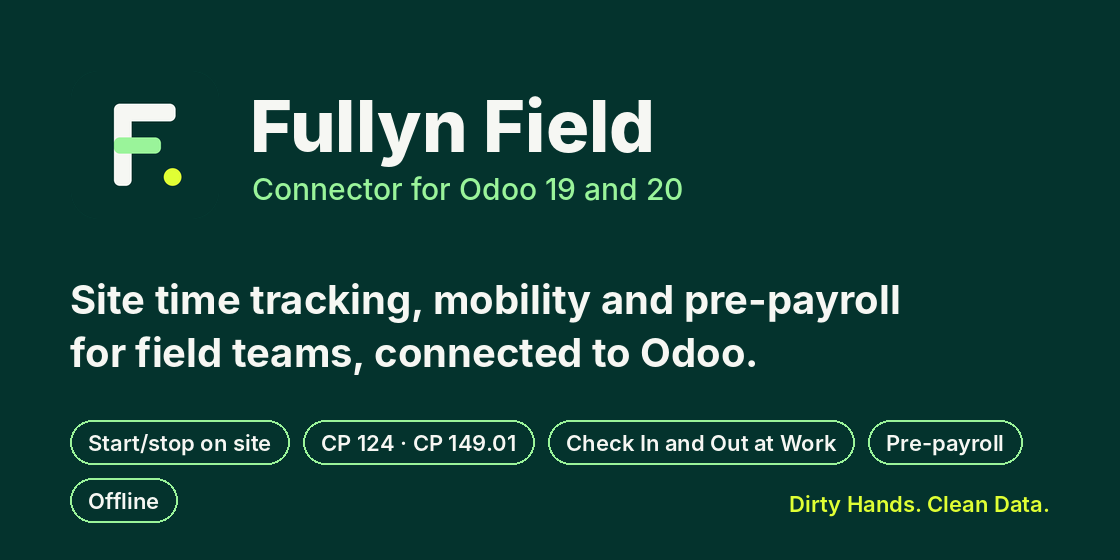
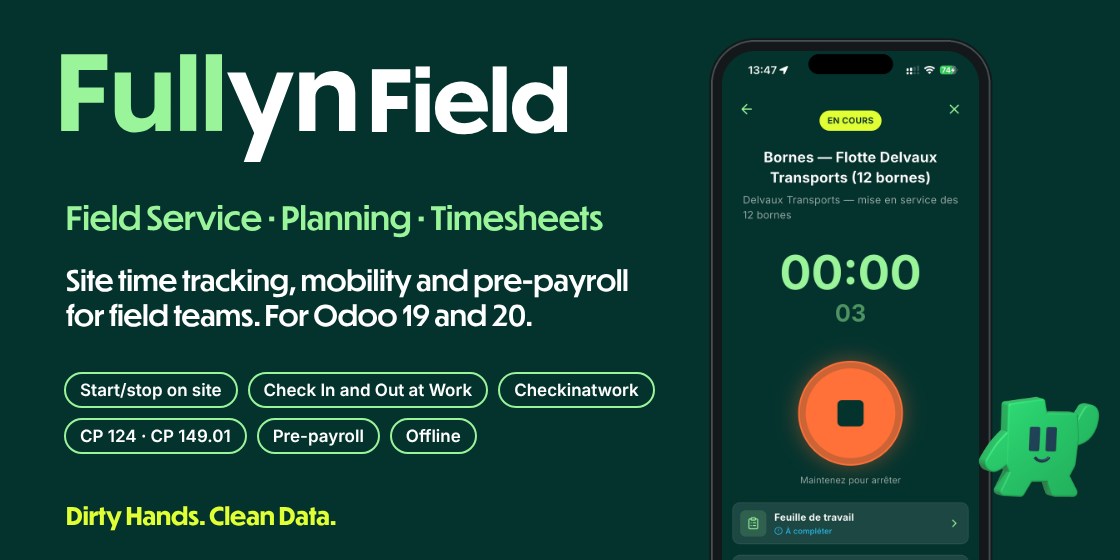
Add files via upload

Changed region(s): [[0.0312, 0.0607, 1.0, 1.0], [0.7188, 0.1821, 0.8125, 0.2429]]

diff --git a/fullyn_field_connector/static/description/index.html b/fullyn_field_connector/static/description/index.html
@@ -1,4 +1,4 @@
-<section class="container" style="font-family: Inter, Arial, Helvetica, sans-serif; color: #04332d;">
+<section class="container" style="font-family: Inter, Arial, Helvetica, sans-serif; color: #024450;">
 
     <!-- ===================== HERO ===================== -->
     <div class="row" style="margin-top: 24px; margin-bottom: 24px;">
@@ -8,40 +8,93 @@
     </div>
 
     <div class="row" style="margin-bottom: 32px;">
-        <div class="col-12 text-center">
-            <h2 style="font-weight: 800; font-size: 32px; color: #04332d; margin-bottom: 12px;">
+        <div class="col-md-10">
+            <h2 style="font-weight: 800; font-size: 32px; color: #024450; margin-bottom: 12px;">
                 The office plans. The field executes. Everything lands in the right place.
             </h2>
-            <p style="font-size: 18px; color: #3b4a46; margin-bottom: 24px;">
-                Fullyn Field captures what your field teams really did (jobs, hours, trips, time off, site attendance)
-                and turns it into pre-payroll, planning and margin per site. This free connector links your Odoo
-                database to your Fullyn Field account.
+            <p style="font-size: 18px; color: #3b4a46;">
+                <b>Fullyn Field</b> is a Belgian software for companies with teams on the field: construction sites,
+                installers, maintenance technicians, cleaning crews, gardeners. Workers record their day on their phone,
+                team leaders validate it on site, the office closes the month, and the data goes to payroll and to Odoo
+                without re-typing anything.
+            </p>
+            <p style="font-size: 16px; color: #3b4a46;">
+                This free module is the <b>connector</b>: it links your Odoo database to your Fullyn Field account and
+                checks whether your Odoo is ready for it.
+            </p>
+            <p style="font-size: 15px; color: #024450; border-left: 4px solid #9af49a; padding-left: 12px;">
+                <b>Field Service</b> &middot; <b>Planning</b> &middot; <b>Timesheets</b> &middot; <b>Pre-payroll</b> &middot;
+                <b>Checkinatwork</b> &middot; <b>Check In and Out at Work (CIAO)</b> &middot;
+                <b>Mobility CP 124 / PC 124</b> &middot; <b>CP 149.01 / PC 149.01</b> &middot; Time off &middot; Kiosk time clock &middot;
+                Construction, installers, maintenance, cleaning, landscaping
             </p>
             <a href="mailto:info@fullyn.com?subject=Fullyn%20Field%20demo%20request%20(Odoo%20Apps)"
-               style="display: inline-block; background-color: #e0ff34; color: #04332d; font-weight: 700; font-size: 18px; padding: 14px 32px; border: 2px solid #04332d; border-radius: 999px; text-decoration: none;">
+               style="display: inline-block; background-color: #e0ff34; color: #024450; font-weight: 700; font-size: 18px; padding: 14px 32px; border: 2px solid #024450; border-radius: 999px; text-decoration: none; margin-top: 8px;">
                 Request a demo
             </a>
             <p style="font-size: 14px; color: #5b6b66; margin-top: 10px;">20-minute demo on one of your own sites, in French or Dutch.</p>
         </div>
+
+
+    <!-- ===================== WHAT IS FULLYN FIELD ===================== -->
+    <div class="row" style="margin-bottom: 8px;">
+        <div class="col-12">
+            <h3 style="font-weight: 800; font-size: 26px; margin-bottom: 16px;">What is Fullyn Field?</h3>
+        </div>
+    </div>
+    <div class="row" style="margin-bottom: 24px;">
+        <div class="col-md-4" style="margin-bottom: 16px;">
+            <div style="border: 1px solid #d9ded6; border-top: 6px solid #024450; border-radius: 8px; padding: 18px; height: 100%;">
+                <h4 style="font-weight: 700; font-size: 19px;">A mobile app for the field</h4>
+                <p style="font-size: 15px; margin-bottom: 0;">Workers start and stop each job with one tap, declare their trips,
+                    request time off and add photos, videos or voice notes. It works offline. Team leaders can record time
+                    for their whole crew and validate it on site.</p>
+            </div>
+        </div>
+        <div class="col-md-4" style="margin-bottom: 16px;">
+            <div style="border: 1px solid #d9ded6; border-top: 6px solid #024450; border-radius: 8px; padding: 18px; height: 100%;">
+                <h4 style="font-weight: 700; font-size: 19px;">An office back-end</h4>
+                <p style="font-size: 15px; margin-bottom: 0;">The office plans the work, follows the team in real time,
+                    corrects and validates hours, then closes the month. Each job is allocated to a project, a task and a
+                    sales order.</p>
+            </div>
+        </div>
+        <div class="col-md-4" style="margin-bottom: 16px;">
+            <div style="border: 1px solid #d9ded6; border-top: 6px solid #024450; border-radius: 8px; padding: 18px; height: 100%;">
+                <h4 style="font-weight: 700; font-size: 19px;">Connections to your tools</h4>
+                <p style="font-size: 15px; margin-bottom: 0;">Validated hours, trips, time off and photos go to Odoo
+                    (timesheets, projects, sales), to the social secretariat for payroll, and to the accountant.</p>
+            </div>
+        </div>
     </div>
 
-    <!-- ===================== WHAT THIS MODULE DOES ===================== -->
     <div class="row" style="margin-bottom: 32px;">
-        <div class="col-12" style="border: 1px solid #d9ded6; border-left: 6px solid #04332d; border-radius: 8px; padding: 20px 24px;">
-            <h3 style="font-weight: 800; font-size: 22px; margin-bottom: 12px;">What this module does in Odoo</h3>
-            <ul style="font-size: 16px; line-height: 1.7; margin-bottom: 12px;">
-                <li>Adds a <b>Fullyn Field</b> menu and a settings screen (platform address, API key).</li>
-                <li><b>Tests the connection</b> to your Fullyn account, after explicit opt-in by an administrator.</li>
-                <li>Runs a <b>local readiness check</b> of your database: Odoo version, active employees, active projects,
-                    and whether Project, Timesheets, Planning, Time Off and Employees are installed, with a recommendation
-                    on how to deploy Fullyn Field.</li>
-                <li>Opens your Fullyn platform and the demo booking page from the menu.</li>
-            </ul>
-            <p style="font-size: 15px; color: #3b4a46; margin-bottom: 0;">
-                <b>External service:</b> the features described below are provided by Fullyn Field, a separate
-                subscription from Fullyn SRL (Belgium). Without a Fullyn account, the menu, settings and readiness check
-                still work. This module does not contain the Fullyn Field application itself.
-            </p>
+        <div class="col-12" style="background-color: #f6f7f3; border: 1px solid #d9ded6; border-radius: 8px; padding: 20px 24px;">
+            <h4 style="font-weight: 700; font-size: 19px; margin-bottom: 12px;">How it works, in four steps</h4>
+            <ol style="font-size: 16px; line-height: 1.8; margin-bottom: 0;">
+                <li><b>The office plans</b> the week: who works on which site, on which task.</li>
+                <li><b>The field records</b> the day in the app: start/stop per job, trips, time off, photos.</li>
+                <li><b>The team leader and the office validate</b>: corrections on site, then month-end validation and closing.</li>
+                <li><b>Everything lands in the right place</b>: Odoo timesheets and projects, payroll, invoicing, margin per site.</li>
+            </ol>
+        </div>
+    </div>
+
+    <!-- ===================== IN THE APP ===================== -->
+    <div class="row" style="margin-bottom: 8px;">
+        <div class="col-12 text-center">
+            <h3 style="font-weight: 800; font-size: 26px; margin-bottom: 6px;">In the Fullyn app</h3>
+            <p style="font-size: 15px; color: #5b6b66; margin-bottom: 20px;">Real screens of the Fullyn mobile app (shown in French).</p>
+        </div>
+    </div>
+    <div class="row" style="margin-bottom: 32px;">
+        <div class="col-md-6 text-center" style="margin-bottom: 16px;">
+            <img src="phone_planning.png" alt="Fullyn app: today's planning with jobs to start" class="img-fluid" style="max-width: 260px;"/>
+            <p style="font-size: 15px; margin-top: 10px;"><b>Today's planning.</b> Each worker sees the jobs planned by the office and starts them with one tap.</p>
+        </div>
+        <div class="col-md-6 text-center" style="margin-bottom: 16px;">
+            <img src="phone_timer.png" alt="Fullyn app: job in progress with timer, worksheet and mobility" class="img-fluid" style="max-width: 260px;"/>
+            <p style="font-size: 15px; margin-top: 10px;"><b>Job in progress.</b> The timer runs; hold to stop. From here: the worksheet and the CP 124 / CP 149.01 trip declaration.</p>
         </div>
     </div>
 
@@ -59,7 +112,7 @@
                     <li>Working time recorded and validated on site, then at the office</li>
                     <li>Time off, absences and bad-weather days</li>
                     <li>CP 124 and CP 149.01 mobility</li>
-                    <li>Month-end validation and closing, sent to the social secretariat and the accountant</li>
+                    <li>Month-end closing, sent to the social secretariat and the accountant</li>
                 </ul>
             </div>
         </div>
@@ -68,9 +121,9 @@
                 <h4 style="font-weight: 700; font-size: 19px;">Operations and planning</h4>
                 <ul style="font-size: 15px; line-height: 1.6; padding-left: 18px; margin-bottom: 0;">
                     <li>The office plans, the field receives its jobs</li>
-                    <li>Individual, team or kiosk time tracking with start/stop</li>
+                    <li>Individual, team or kiosk time tracking</li>
                     <li>Team leaders validate and correct on site</li>
-                    <li>Photos, videos, voice notes and a worksheet per job</li>
+                    <li>A worksheet per job, with photos and voice notes</li>
                 </ul>
             </div>
         </div>
@@ -108,20 +161,32 @@
                 <li><b>Position recorded at start and stop</b> of each job, nothing in between and nothing when the
                     app is closed.</li>
                 <li>Six languages: French, Dutch, English, German, Italian, Spanish.</li>
-                <li>For construction, electrical and HVAC installers, maintenance, cleaning and facility, parks and
-                    gardens, from 10 to 5,000 workers.</li>
+                <li>From 10 to 5,000 workers, in Belgium and Luxembourg.</li>
             </ul>
         </div>
     </div>
 
-    <!-- ===================== SCREENSHOTS ===================== -->
-    <div class="row" style="margin-bottom: 8px;">
-        <div class="col-12 text-center">
-            <h3 style="font-weight: 800; font-size: 26px; margin-bottom: 20px;">Screenshots</h3>
+    <!-- ===================== WHAT THIS MODULE DOES ===================== -->
+    <div class="row" style="margin-bottom: 24px;">
+        <div class="col-12" style="border: 1px solid #d9ded6; border-left: 6px solid #024450; border-radius: 8px; padding: 20px 24px;">
+            <h3 style="font-weight: 800; font-size: 22px; margin-bottom: 12px;">What this module does in Odoo</h3>
+            <ul style="font-size: 16px; line-height: 1.7; margin-bottom: 12px;">
+                <li>Adds a <b>Fullyn Field</b> menu and a settings screen (platform address, API key).</li>
+                <li><b>Tests the connection</b> to your Fullyn account, after explicit opt-in by an administrator.</li>
+                <li>Runs a <b>local readiness check</b> of your database: Odoo version, active employees, active projects,
+                    and whether Project, Timesheets, Planning, Time Off and Employees are installed, with a recommendation
+                    on how to deploy Fullyn Field.</li>
+                <li>Opens your Fullyn platform and the demo booking page from the menu.</li>
+            </ul>
+            <p style="font-size: 15px; color: #3b4a46; margin-bottom: 0;">
+                <b>External service:</b> the Fullyn Field features described on this page are provided by Fullyn Field,
+                a separate subscription from Fullyn SRL (Belgium). Without a Fullyn account, the menu, settings and
+                readiness check still work. This module does not contain the Fullyn Field application itself.
+            </p>
         </div>
     </div>
     <div class="row" style="margin-bottom: 32px;">
-        <div class="col-md-10 offset-md-1" style="margin-bottom: 16px;">
+        <div class="col-md-10 offset-md-1">
             <img src="screenshot_settings.png" alt="Fullyn Field Connector settings in Odoo" class="img-fluid" style="border: 1px solid #d9ded6; border-radius: 8px;"/>
             <p style="font-size: 14px; color: #5b6b66; margin-top: 6px;">This module in Odoo: connection settings and readiness check.</p>
         </div>
@@ -133,9 +198,9 @@
             <h3 style="font-weight: 800; font-size: 22px; margin-bottom: 12px;">Two ways to run Fullyn Field with Odoo</h3>
             <table class="table" style="font-size: 15px;">
                 <tr>
-                    <th style="border-bottom: 2px solid #04332d;"></th>
-                    <th style="border-bottom: 2px solid #04332d;">Fullyn Field for Odoo</th>
-                    <th style="border-bottom: 2px solid #04332d;">Fullyn Field through the Fullyn platform</th>
+                    <th style="border-bottom: 2px solid #024450;"></th>
+                    <th style="border-bottom: 2px solid #024450;">Fullyn Field for Odoo</th>
+                    <th style="border-bottom: 2px solid #024450;">Fullyn Field through the Fullyn platform</th>
                 </tr>
                 <tr>
                     <td><b>Where data goes</b></td>
@@ -173,9 +238,10 @@
     <!-- ===================== CONTACT ===================== -->
     <div class="row" style="margin-bottom: 40px;">
         <div class="col-12 text-center">
+            <img src="mascot_small.png" alt="The Fullyn mascot" style="width: 90px; margin-bottom: 8px;"/>
             <h3 style="font-weight: 800; font-size: 24px;">See Fullyn Field on one of your sites</h3>
             <a href="mailto:info@fullyn.com?subject=Fullyn%20Field%20demo%20request%20(Odoo%20Apps)"
-               style="display: inline-block; background-color: #e0ff34; color: #04332d; font-weight: 700; font-size: 18px; padding: 14px 32px; border: 2px solid #04332d; border-radius: 999px; text-decoration: none; margin-top: 8px;">
+               style="display: inline-block; background-color: #e0ff34; color: #024450; font-weight: 700; font-size: 18px; padding: 14px 32px; border: 2px solid #024450; border-radius: 999px; text-decoration: none; margin-top: 8px;">
                 Request a demo
             </a>
             <p style="font-size: 14px; color: #5b6b66; margin-top: 12px;">
@@ -185,32 +251,39 @@
         </div>
     </div>
 
-    <!-- ===================== EN FRANÇAIS ===================== -->
+    <!-- ===================== EN FRAN&#199;AIS ===================== -->
     <div class="row" style="margin-bottom: 40px;">
-        <div class="col-12" style="border-top: 2px solid #04332d; padding-top: 24px;">
-            <h3 style="font-weight: 800; font-size: 24px;">En français</h3>
+        <div class="col-12" style="border-top: 2px solid #024450; padding-top: 24px;">
+            <h3 style="font-weight: 800; font-size: 24px;">En fran&#231;ais</h3>
+            <h4 style="font-weight: 700; font-size: 19px;">C'est quoi, Fullyn Field ?</h4>
             <p style="font-size: 16px;">
-                <b>Le bureau prépare. Le terrain exécute. Tout remonte au bon endroit.</b> Fullyn Field collecte ce que
-                vos équipes terrain ont réellement fait (prestations, heures, trajets, congés, présences sur chantier) et
-                le transforme en pré-paie, en planning et en marge par chantier. Ce connecteur gratuit relie votre base
-                Odoo à votre compte Fullyn Field.
+                <b>Fullyn Field</b> est un logiciel belge pour les entreprises qui ont des &#233;quipes sur le terrain : chantiers,
+                installateurs, techniciens de maintenance, &#233;quipes de nettoyage, parcs et jardins. Les ouvriers encodent
+                leur journ&#233;e sur leur t&#233;l&#233;phone, le chef d'&#233;quipe valide sur place, le bureau cl&#244;ture le mois, et tout part
+                vers la paie et vers Odoo, sans rien ressaisir.
             </p>
             <ul style="font-size: 15px; line-height: 1.7; padding-left: 18px;">
-                <li><b>Pointage chantier</b> en start/stop, individuel, d'équipe ou en mode Kiosk, validé sur place par le chef d'équipe.</li>
-                <li><b>Mobilités CP 124 et CP 149.01</b> : trajets déclarés dans l'app, kilomètres calculés.</li>
-                <li><b>Check In and Out at Work (CIaO)</b> : dès le 1er avril 2027, entrée et sortie enregistrées sur les chantiers d'au moins 500 000 € HTVA ; le geste start/stop les enregistre.</li>
-                <li><b>Pré-paie</b> : temps de travail, congés, absences, intempéries, validations du mois et clôture vers le secrétariat social et la fiduciaire.</li>
-                <li><b>Hors ligne</b> : l'app fonctionne en zone blanche ; les prestations partent dès le retour du réseau.</li>
-                <li><b>Rentabilité</b> : chaque prestation allouée au projet, à la tâche et à la commande client.</li>
+                <li><b>Une app mobile pour le terrain</b> : start/stop de chaque prestation, trajets, cong&#233;s, photos, vid&#233;os, notes vocales. Elle fonctionne hors ligne.</li>
+                <li><b>Un back-office pour le bureau</b> : planning, suivi de l'&#233;quipe, corrections, validations du mois et cl&#244;ture.</li>
+                <li><b>Des connexions</b> : heures valid&#233;es, trajets, cong&#233;s et photos vers Odoo (feuilles de temps, projets, ventes), le secr&#233;tariat social et la fiduciaire.</li>
+            </ul>
+            <h4 style="font-weight: 700; font-size: 19px;">Ce que Fullyn Field g&#232;re</h4>
+            <ul style="font-size: 15px; line-height: 1.7; padding-left: 18px;">
+                <li><b>Pointage chantier</b> en start/stop, individuel, d'&#233;quipe ou en mode Kiosk, et <b>Checkinatwork</b>.</li>
+                <li><b>Mobilit&#233;s CP 124 et CP 149.01</b> (PC 124 et PC 149.01 en n&#233;erlandais) : trajets d&#233;clar&#233;s dans l'app, kilom&#232;tres calcul&#233;s.</li>
+                <li><b>Check In and Out at Work (CIaO)</b> : d&#232;s le 1er avril 2027, entr&#233;e et sortie enregistr&#233;es sur les chantiers d'au moins 500 000 &#8364; HTVA ; le geste start/stop les enregistre.</li>
+                <li><b>Pr&#233;-paie</b> : temps de travail, cong&#233;s, absences, intemp&#233;ries, validations du mois et cl&#244;ture.</li>
+                <li><b>Rentabilit&#233;</b> : chaque prestation allou&#233;e au projet, &#224; la t&#226;che et &#224; la commande client.</li>
             </ul>
             <p style="font-size: 15px;">
-                <b>Ce que fait le module dans Odoo :</b> un menu Fullyn Field, un écran de configuration (adresse de la
-                plateforme, clé API), un test de connexion après accord explicite d'un administrateur, et un diagnostic
-                local de votre base. Les fonctionnalités ci-dessus sont fournies par Fullyn Field, abonnement distinct.
+                <b>Ce que fait ce module dans Odoo :</b> c'est le connecteur gratuit. Il ajoute un menu Fullyn Field, un
+                &#233;cran de configuration (adresse de la plateforme, cl&#233; API), un test de connexion apr&#232;s accord explicite
+                d'un administrateur, et un diagnostic local de votre base. Les fonctionnalit&#233;s de Fullyn Field sont
+                fournies par un abonnement distinct.
             </p>
             <a href="mailto:info@fullyn.com?subject=Demande%20de%20d%C3%A9mo%20Fullyn%20Field%20(Odoo%20Apps)"
-               style="display: inline-block; background-color: #e0ff34; color: #04332d; font-weight: 700; font-size: 17px; padding: 12px 28px; border: 2px solid #04332d; border-radius: 999px; text-decoration: none;">
-                Demander une démo
+               style="display: inline-block; background-color: #e0ff34; color: #024450; font-weight: 700; font-size: 17px; padding: 12px 28px; border: 2px solid #024450; border-radius: 999px; text-decoration: none;">
+                Demander une d&#233;mo
             </a>
         </div>
     </div>

diff --git a/fullyn_field_connector/__manifest__.py b/fullyn_field_connector/__manifest__.py
@@ -3,16 +3,20 @@
 {
     "name": "Fullyn Field Connector",
     "summary": (
-        "Connect Odoo to Fullyn Field: site time tracking, CP 124 / CP 149.01 "
-        "mobility, Check In and Out at Work, pre-payroll for field teams"
+        "Field Service, Planning, Timesheets and Pre-payroll for field teams: "
+        "site time tracking, Checkinatwork, Check In and Out at Work (CIAO), "
+        "CP 124 / PC 124 and CP 149.01 / PC 149.01 mobility"
     ),
     "description": """
 Fullyn Field Connector
 ======================
 
-Connects your Odoo database to Fullyn Field, the field-team solution
-(planning, site time tracking, mobility, month-end validation and closing
-before payroll).
+Connects your Odoo database to Fullyn Field, the Belgian field-team solution:
+Field Service, Planning, Timesheets, Pre-payroll, site time tracking
+(start/stop, team and kiosk), Checkinatwork, Check In and Out at Work (CIAO),
+mobility CP 124 / PC 124 and CP 149.01 / PC 149.01, time off, month-end
+validation and closing before payroll. For construction, installers,
+maintenance, cleaning and landscaping companies.
 
 What the module does
 --------------------
@@ -34,7 +38,7 @@ Fullyn" and clicks "Test connection". The test only sends the API key and
 the module version to the platform address configured in the settings.
 No employee, project or timesheet data is sent by this module.
 """,
-    "version": "19.0.1.0.0",
+    "version": "19.0.1.0.2",
     "category": "Human Resources",
     "author": "Fullyn",
     "website": "https://fullyn.com",
